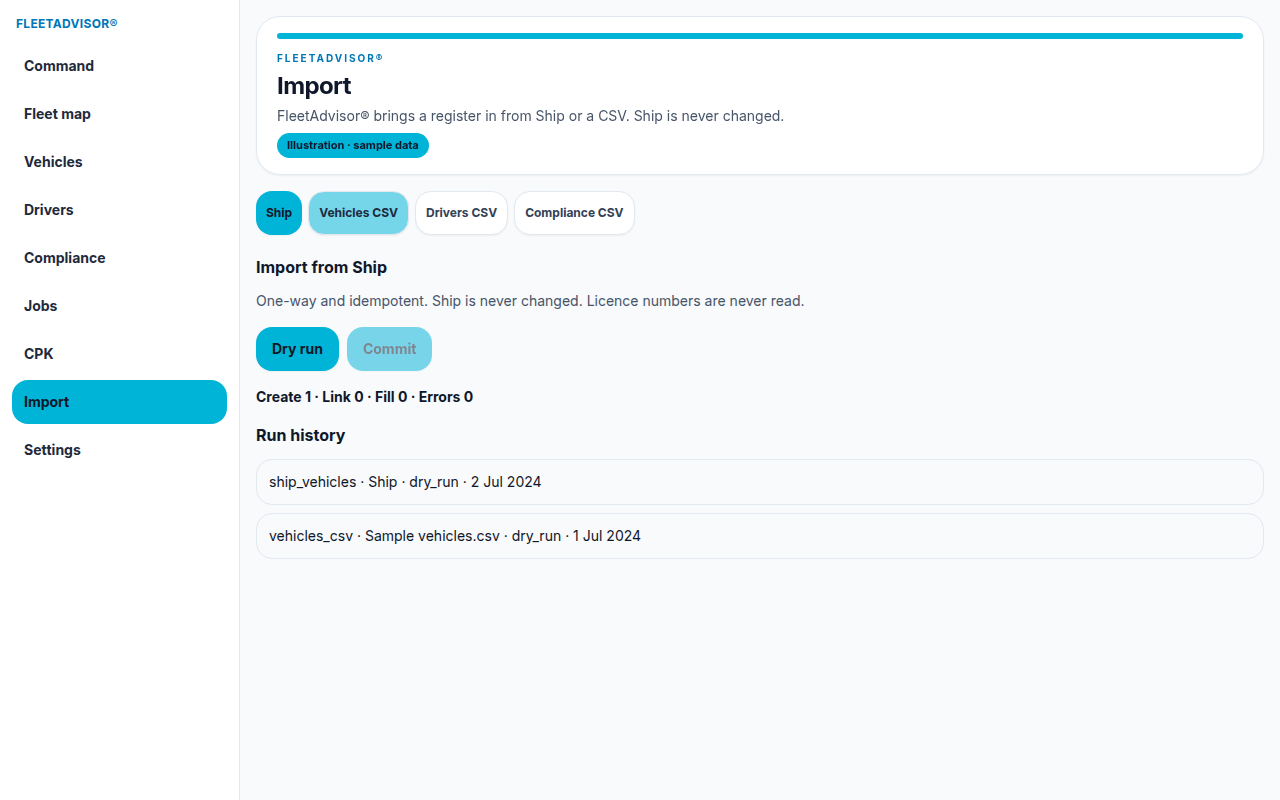
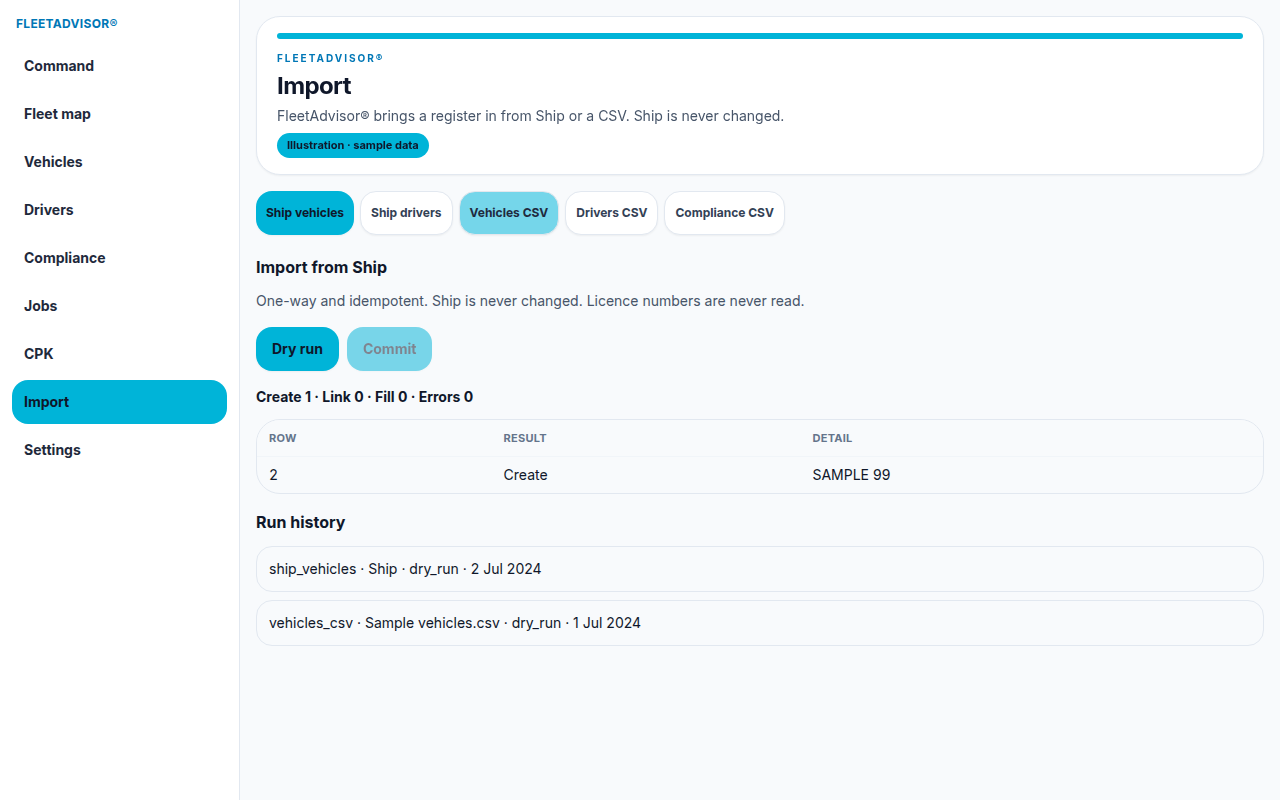
Show the revised FleetAdvisor® reminder and calendar copy in the screenshots.
The preview Ship dry-run still illustrates SAMPLE 99. The real desk never builds that row.

diff --git a/components/fleet/ComplianceViews.tsx b/components/fleet/ComplianceViews.tsx
@@ -620,9 +620,8 @@ export function ImportView(props: FleetDeskProps) {
           : planShipDrivers([driverRow], props.book, props.today, () => PREVIEW_SHIP_DRIVER_ID);
       const hash = shipSourceHash(mode === 'ship_drivers' ? 'ship_drivers' : 'ship_vehicles', mode === 'ship_drivers' ? [driverRow] : [vehicleRow]);
       const shown = planned.summary;
-      const rows = shipRowsForDesk(true, demo && mode === 'ship_drivers' ? [] : planned.rows);
       setResult({
-        rows,
+        rows: demo && mode === 'ship_drivers' ? [] : planned.rows,
         errors: [],
         warnings: planned.warnings,
         summary: shown,
